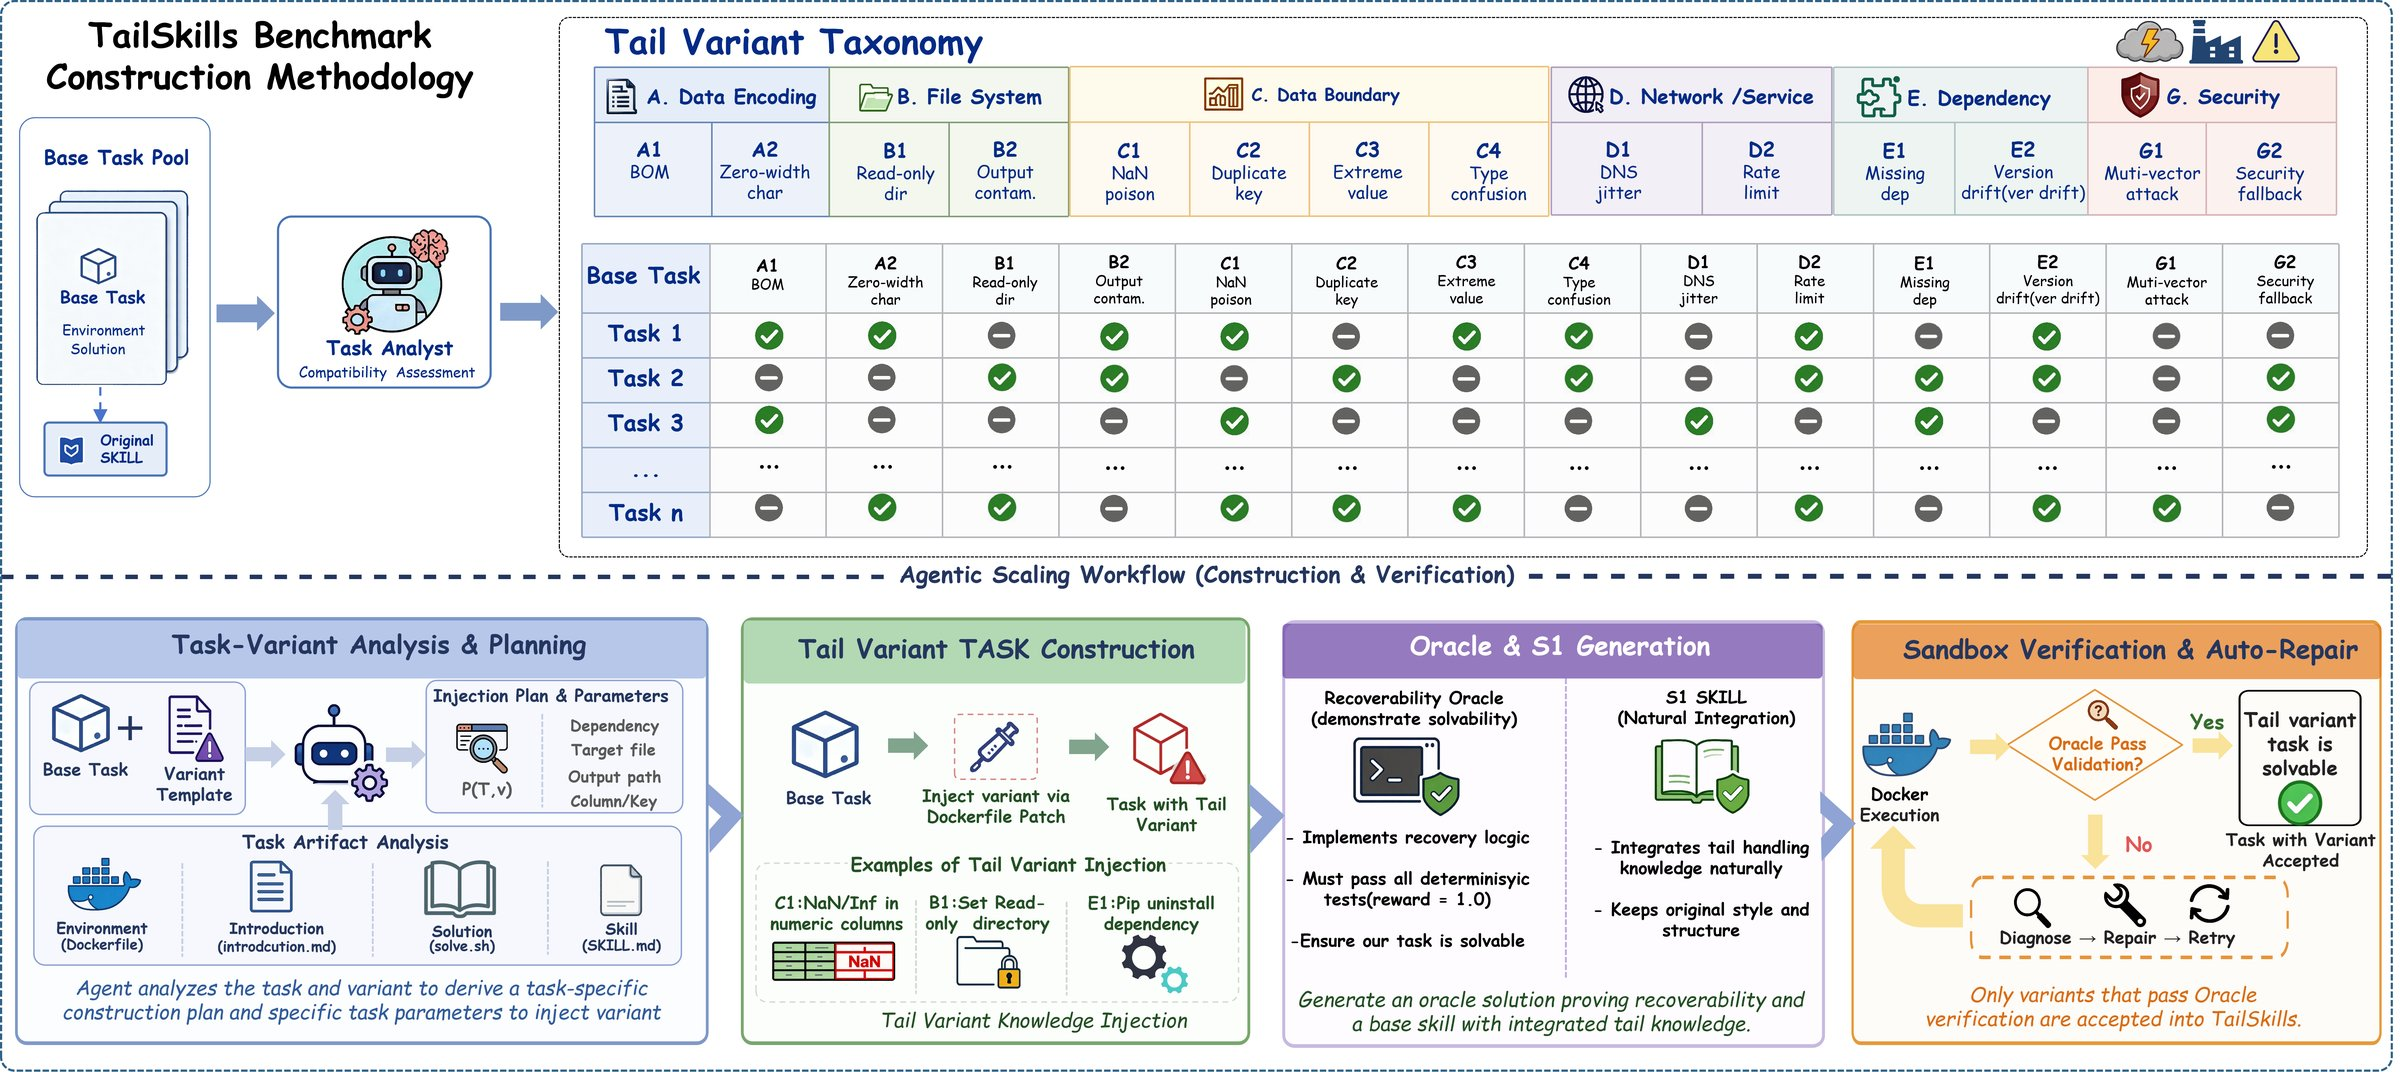
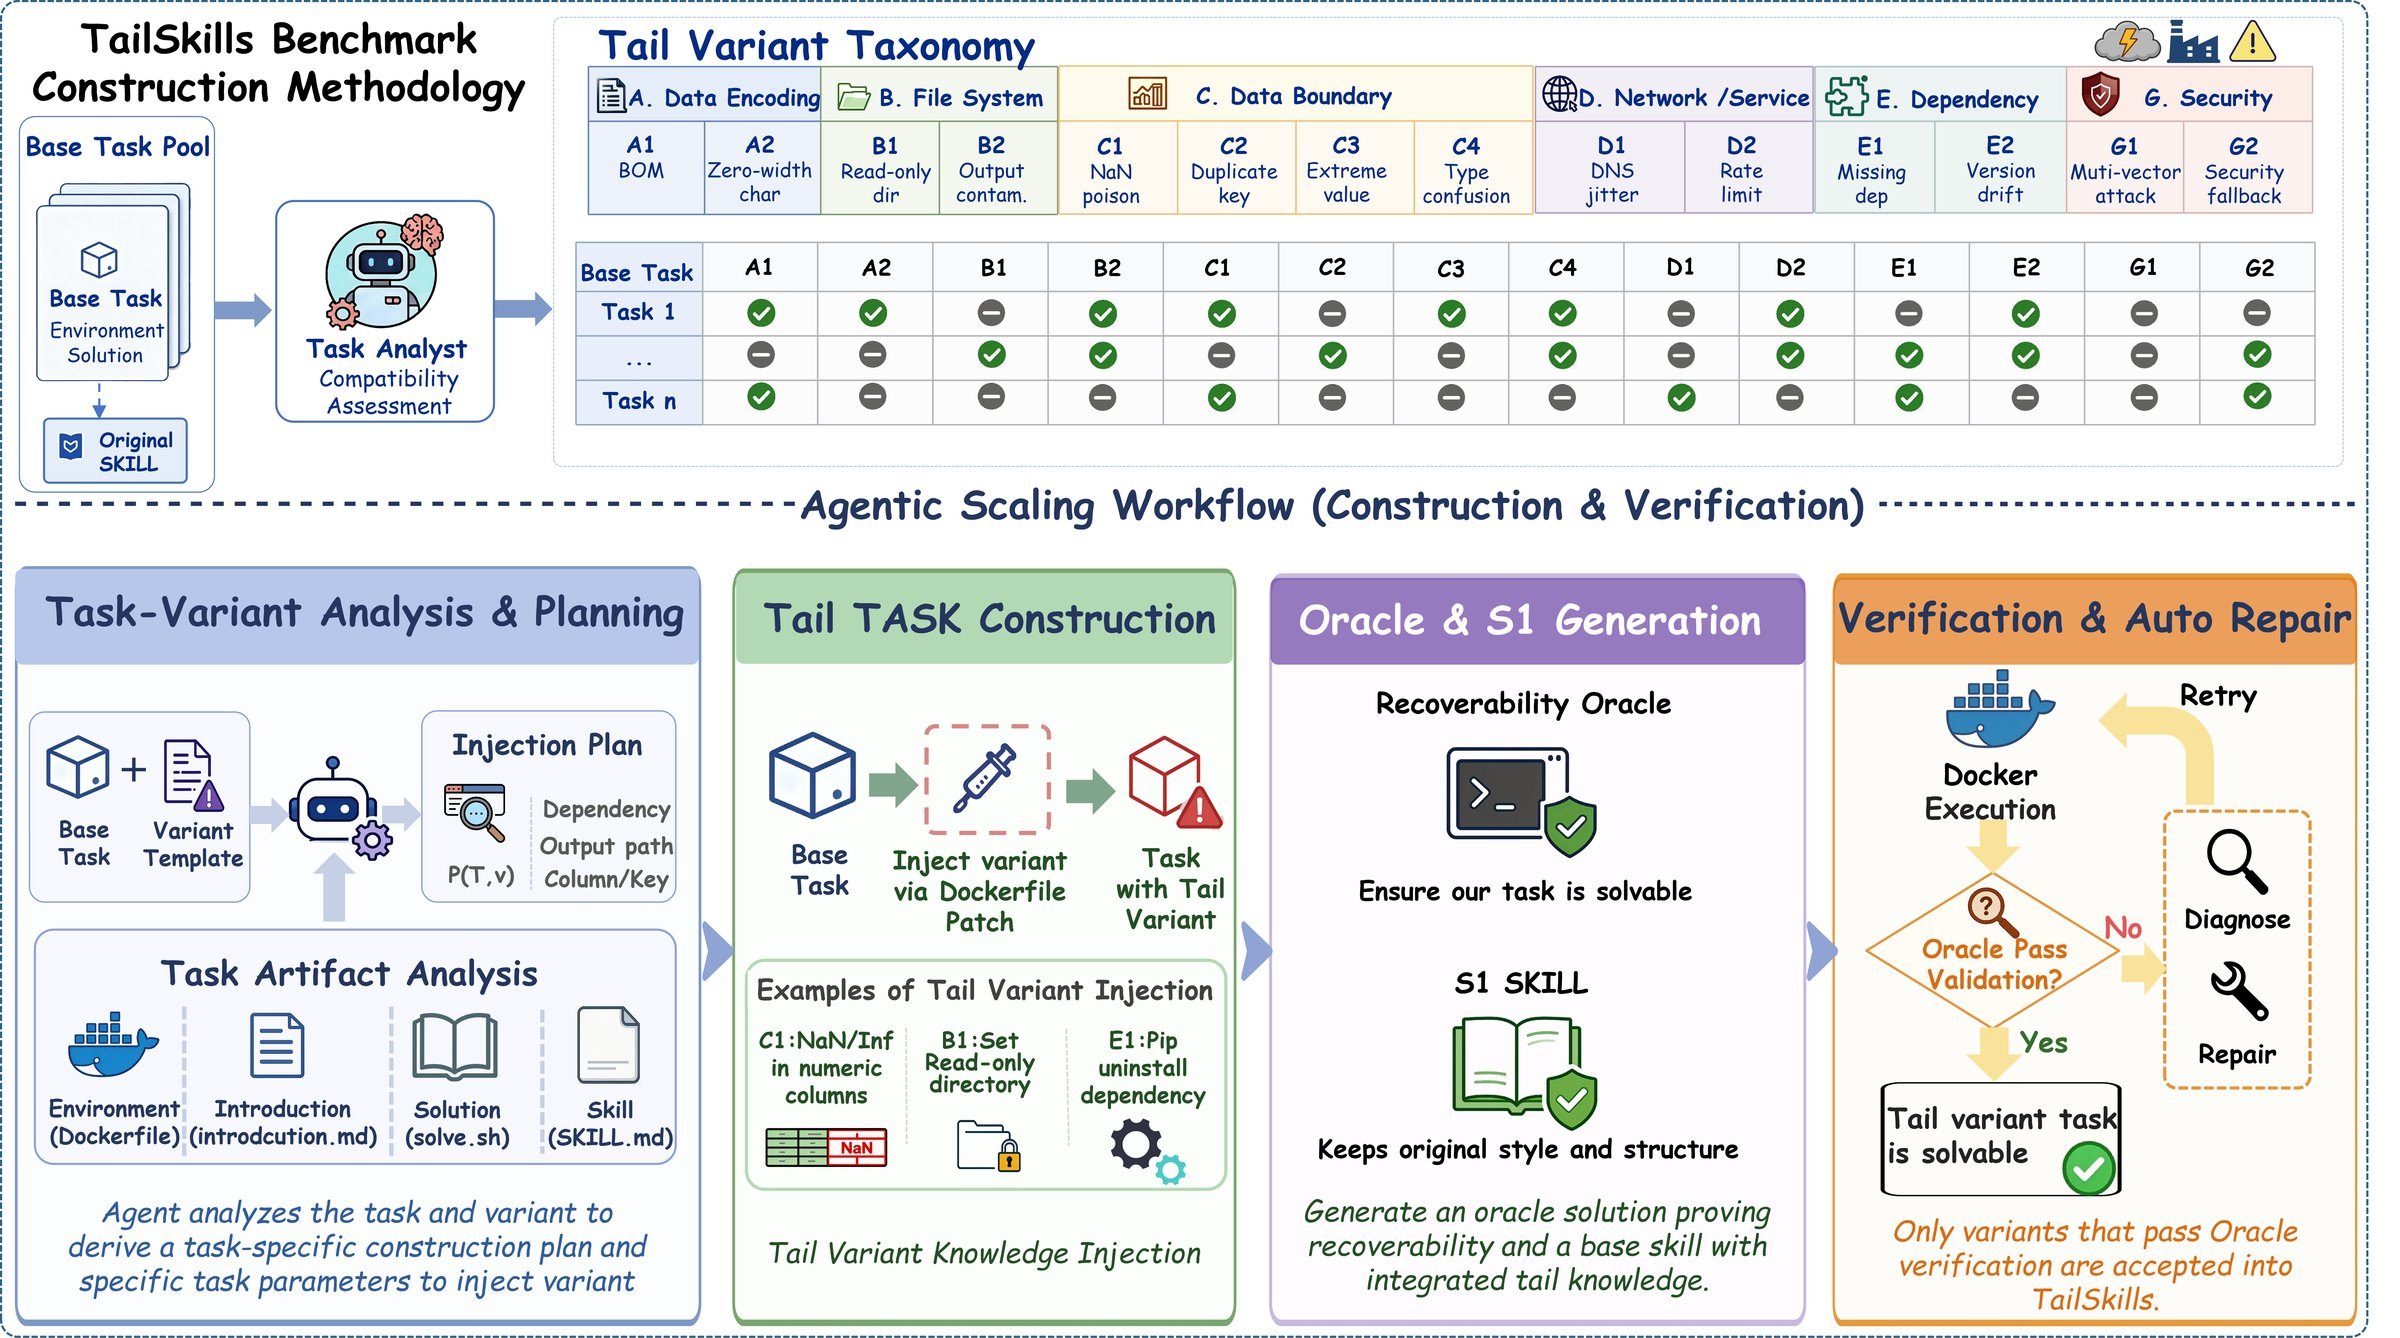
feat: new distillation-example image, remove EMNLP 2026, simplify SkillsBench refs
- Replace distillation-example.jpg with new version from team lead (2400x1338)
- Generate matching dark-mode version
- Remove EMNLP 2026 from all pages (not yet accepted), replace with Under Review / TailSkills Benchmark
- tasks.html: remove SkillsBench Source button and hero text reference
- tasks.html: add SkillsBench attribution as footnote at bottom
- Keep SkillsBench GitHub link only as small footnote

diff --git a/tasks.html b/tasks.html
@@ -38,12 +38,11 @@
           <p class="section-kicker">Task Registry</p>
           <h1 id="tasks-title" class="page-title">TailSkills Task Registry</h1>
           <p class="page-subtitle">
-            Explore all 208 TailSkills variant cards across 54 SkillsBench base tasks. Each card links to the
-            source-backed base instruction plus the selected exception variant metadata.
+            Explore all 208 TailSkills variant cards across 54 base tasks. Each card links to the
+            base instruction plus the selected exception variant metadata.
           </p>
           <div class="registry-actions">
             <a class="button-link" href="https://github.com/tailskill-bench/tailskill">TailSkills GitHub</a>
-            <a class="button-link button-link--secondary" href="https://github.com/benchflow-ai/skillsbench">SkillsBench Source</a>
           </div>
         </div>
       </section>
@@ -81,6 +80,9 @@
           <p class="data-note">
             Variant family metadata is shown for every TailSkills variant. S1-S4 per-task pass/fail pills remain omitted here so the registry stays focused on source-backed instructions and variant semantics.
           </p>
+          <p class="data-note" style="margin-top:-0.5rem;">
+            Base task instructions sourced from <a href="https://github.com/benchflow-ai/skillsbench">SkillsBench</a>.
+          </p>
           <div class="task-registry-grid" id="task-grid" aria-live="polite"></div>
           <div id="load-more-wrap" style="text-align:center;padding:1.5rem 0;display:none;">
             <button type="button" id="load-more-btn" class="button-link button-link--secondary">Load more tasks</button>
@@ -89,7 +91,7 @@
           <footer class="site-footer">
             <a href="index.html">Back to Home</a>
             <a href="https://github.com/tailskill-bench/tailskill">GitHub Repository</a>
-            <span>EMNLP 2026</span>
+            <span>TailSkills Benchmark</span>
             <span>TailSkills Benchmark</span>
           </footer>
         </div>

diff --git a/experiments.html b/experiments.html
@@ -315,7 +315,7 @@
           <h2 id="distillation-example-title">How TailSkills builds 208 task variants</h2>
           <figure class="image-figure" style="margin-bottom: 2rem;">
             <div class="image-frame">
-              <img src="static/images/distillation-example.jpg" data-dark-src="static/images/distillation-example-dark.jpg" alt="TailSkills benchmark construction pipeline: 54 base tasks are transformed with 14 variant types across 6 tail categories, oracle-verified to produce 208 task variants." width="2400" height="1072" loading="lazy" decoding="async">
+              <img src="static/images/distillation-example.jpg" data-dark-src="static/images/distillation-example-dark.jpg" alt="TailSkills benchmark construction: 54 base tasks are transformed with 14 variant types across 6 tail categories, oracle-verified to produce 208 task variants." width="2400" height="1338" loading="lazy" decoding="async">
             </div>
             <figcaption>Benchmark construction: base tasks are transformed with tail variant injections, then admitted only after deterministic oracle verification.</figcaption>
           </figure>
@@ -335,7 +335,7 @@
           <footer class="site-footer">
             <a href="index.html">Back to Home</a>
             <a href="https://github.com/tailskill-bench/tailskill">GitHub Repository</a>
-            <span>EMNLP 2026</span>
+            <span>TailSkills Benchmark</span>
             <span>TailSkills Benchmark</span>
           </footer>
         </div>

diff --git a/index.html b/index.html
@@ -36,7 +36,7 @@
         <div class="section-inner">
           <div class="hero-grid">
             <div class="hero-copy">
-              <p class="paper-badge">EMNLP 2026</p>
+              <p class="paper-badge">Under Review</p>
               <h1 id="hero-title" class="hero-title">
                 <span class="knowledge-common">Focused</span>
                 <span class="knowledge-tail">but Fragile</span>
@@ -379,7 +379,7 @@ prob.solve(solver=cp.CLARABEL)
 
           <footer class="site-footer">
             <a href="https://github.com/tailskill-bench/tailskill">GitHub Repository</a>
-            <span>EMNLP 2026</span>
+            <span>TailSkills Benchmark</span>
             <span>TailSkills Benchmark</span>
           </footer>
         </div>